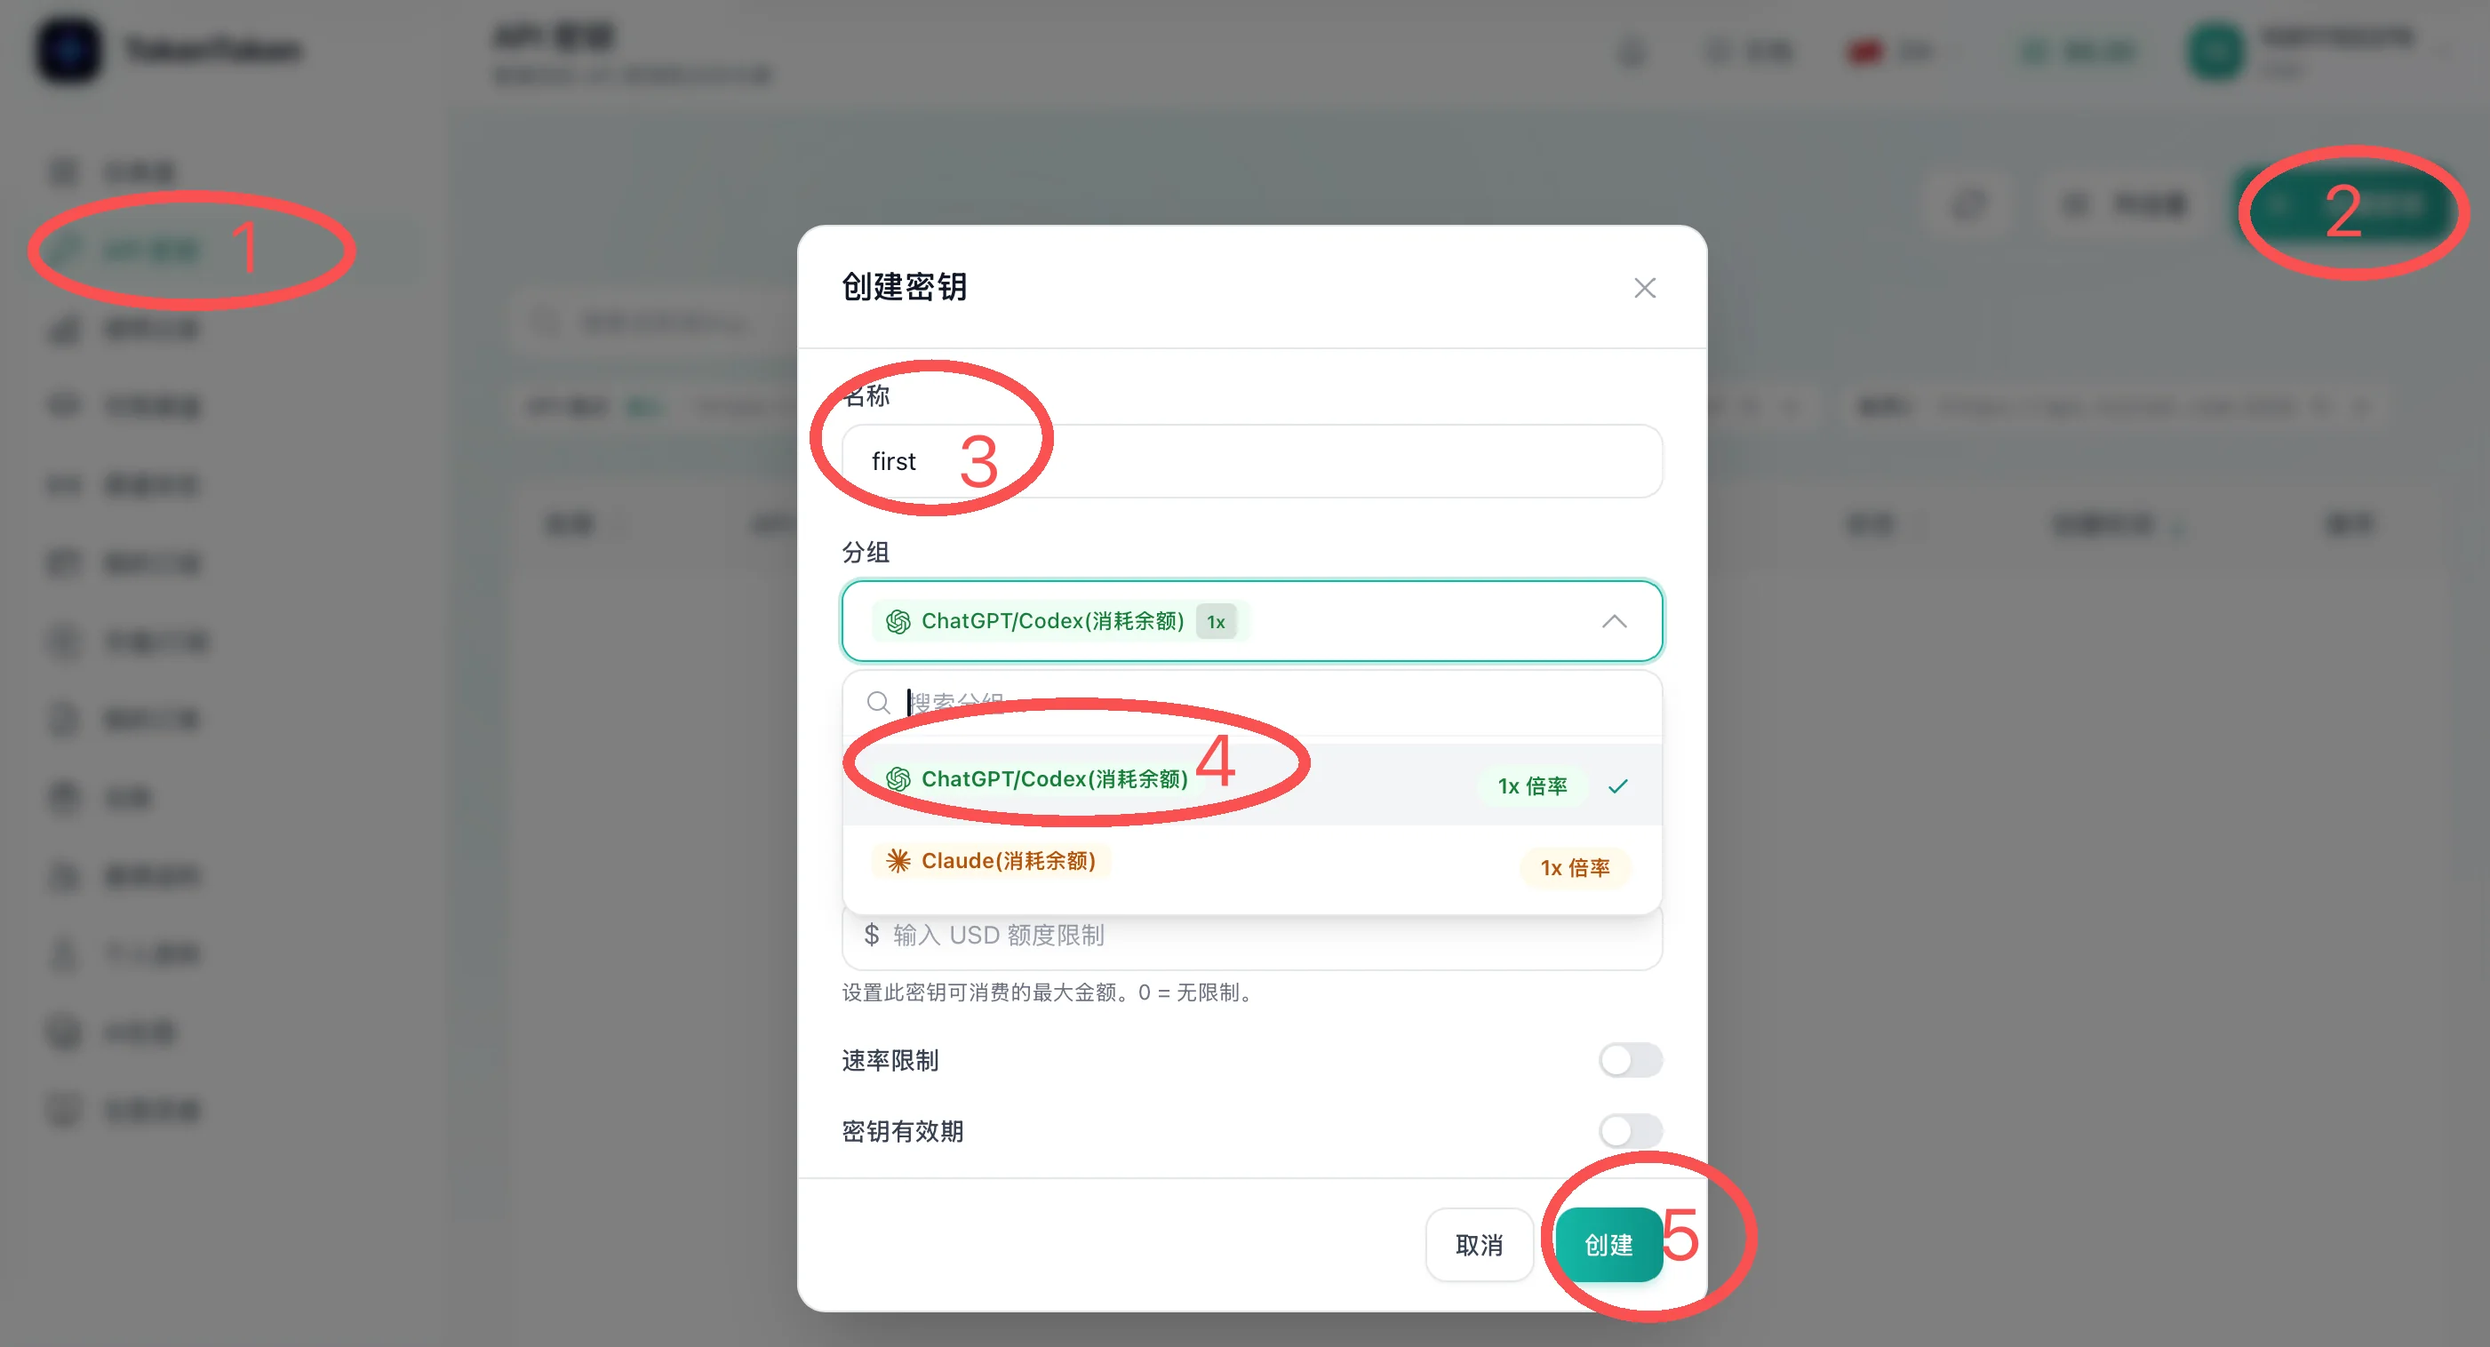
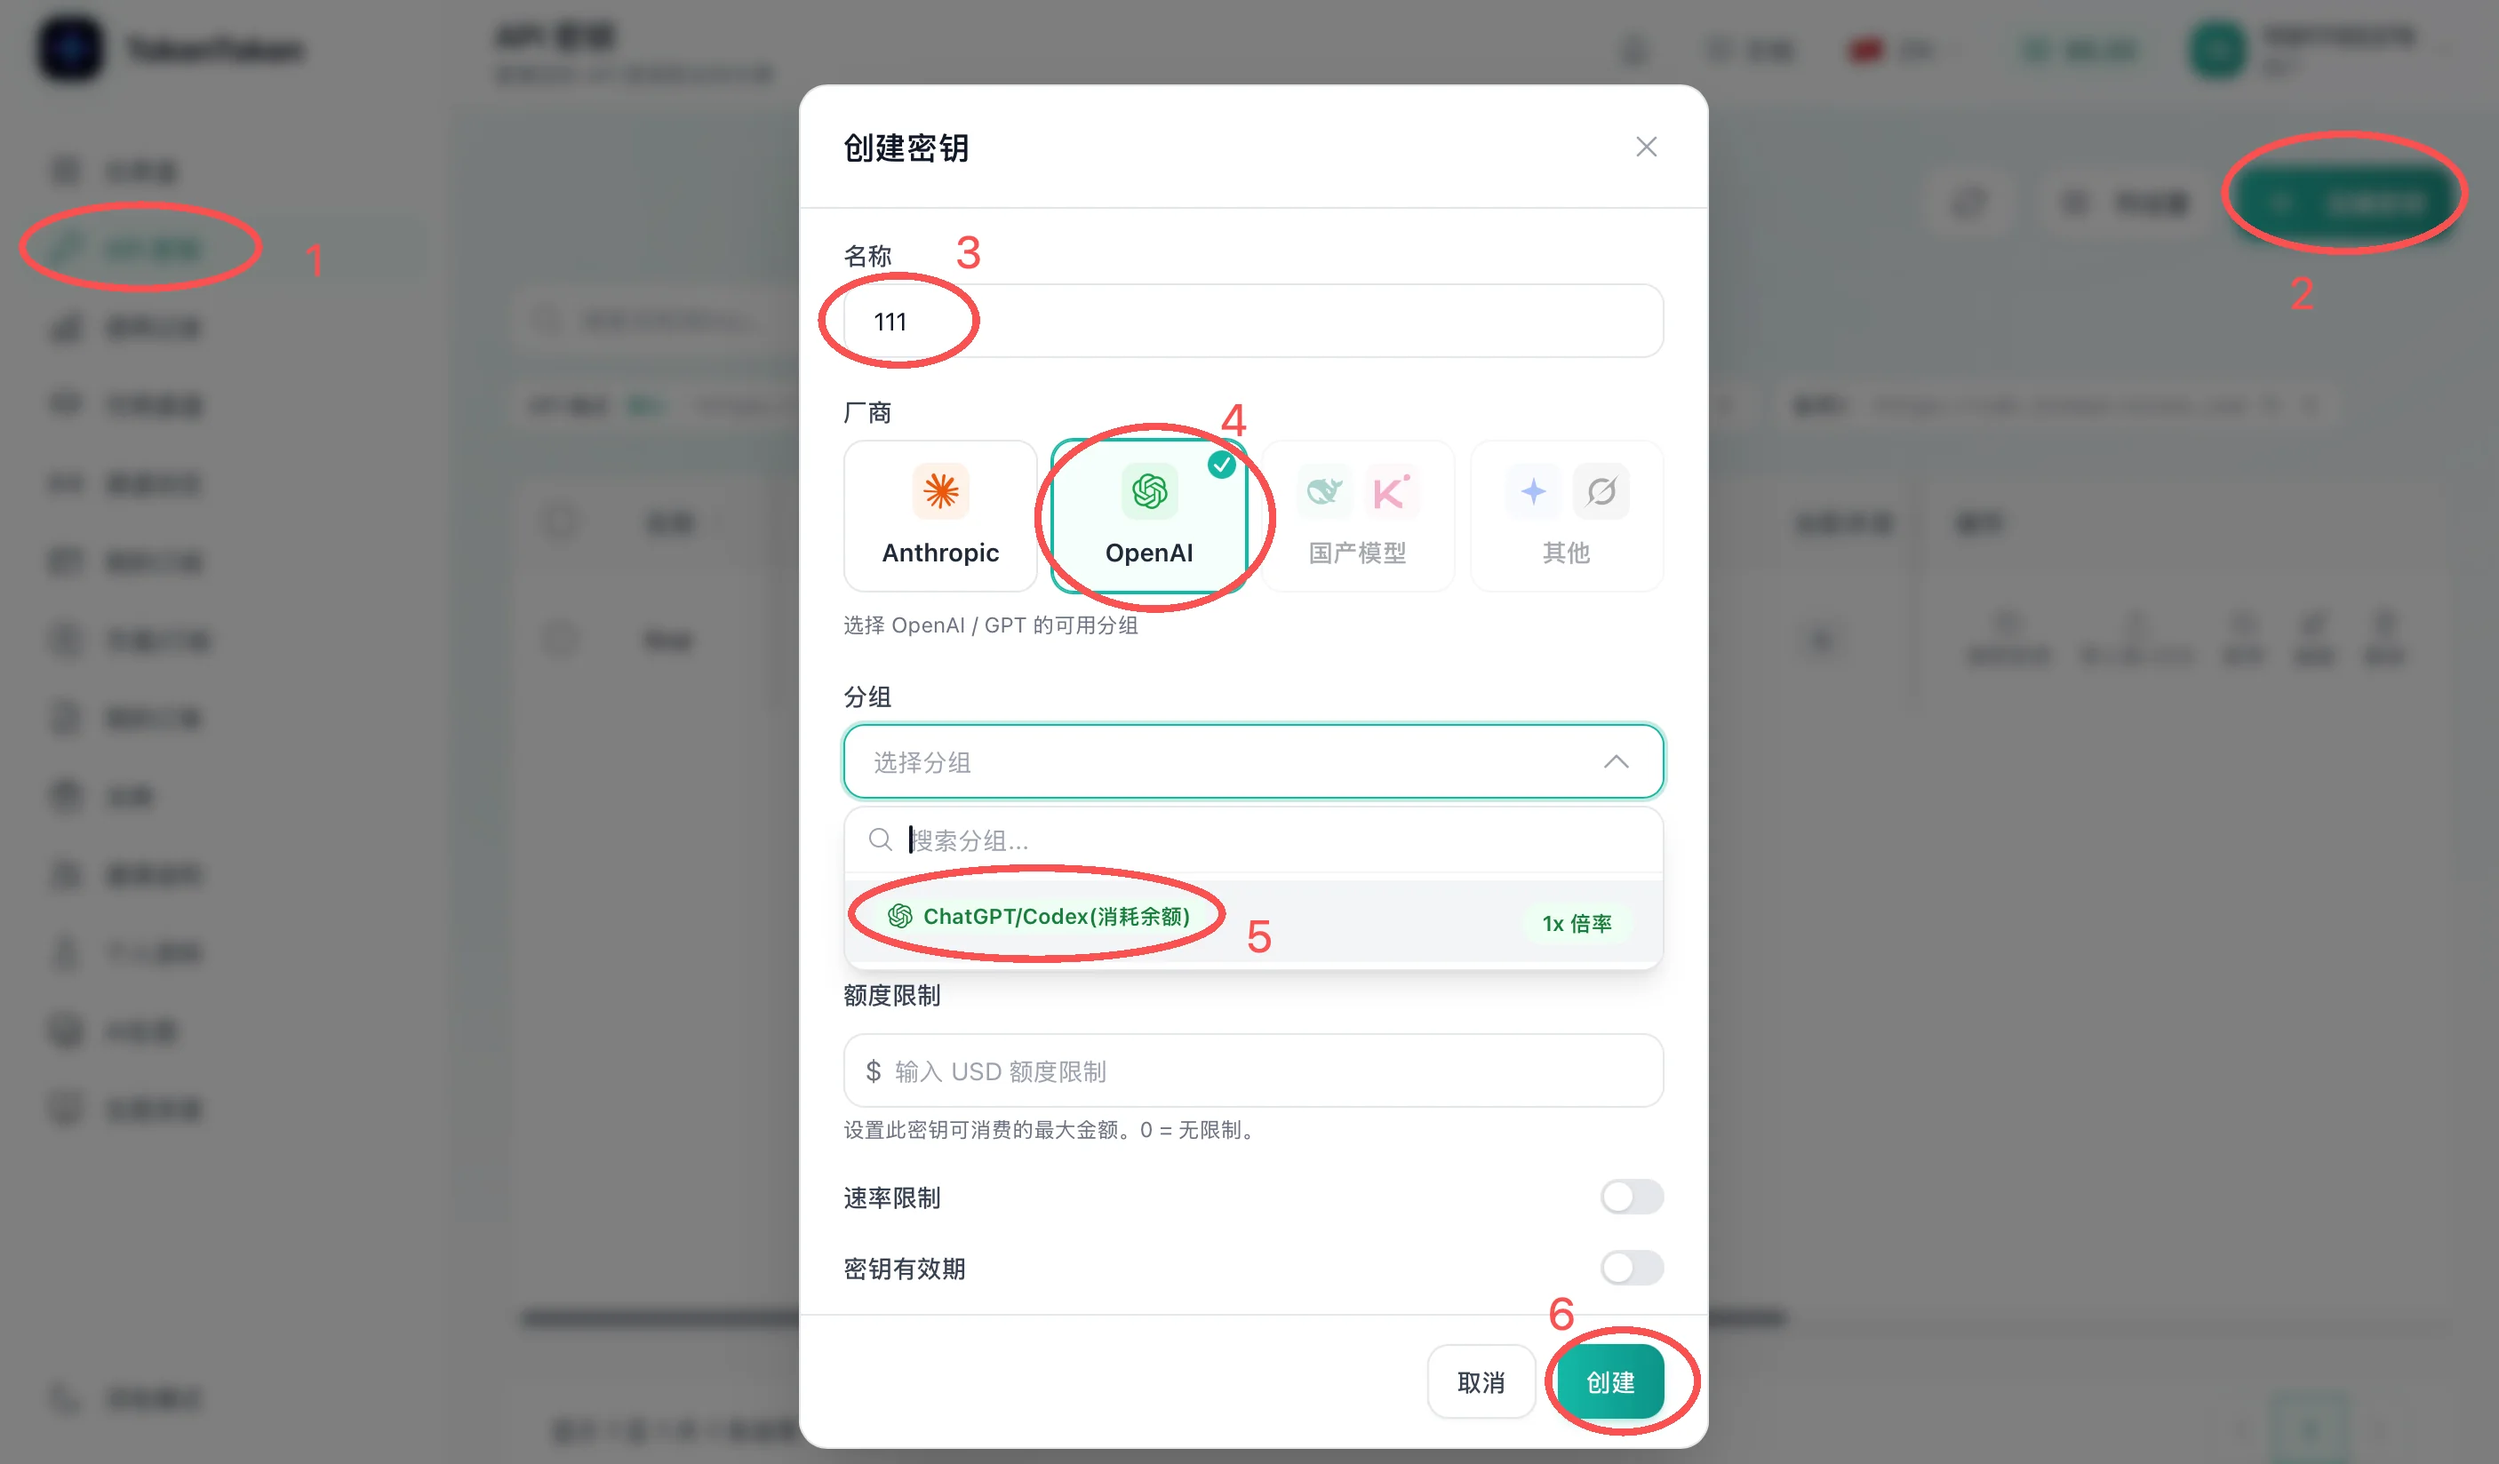
docs: update TokenToken guide and API key screenshot

diff --git a/docs/guide/token-token.md b/docs/guide/token-token.md
@@ -4,7 +4,7 @@
 
 这是一个大模型聚合平台，上游接的ChatGPT pro订阅账户，共享额度给各位老板使用，网络问题/ChatGPT账户注册问题/海外信用卡支付订阅的问题，统统不用操心，像使用国内模型一样丝滑使用。
 
-当前支持gpt-5.6系列，gpt-5.5，gpt-5.4，gpt-image-2等模型，可以接入Codex写代码，也可以生图、做网站、辅助论文写作，1r兑换1刀额度，gpt-5.6-sol/gpt-5.5百万token输入价格5块，跟国产模型差不多的价格用顶级模型，性价比拉满。
+当前支持gpt-6系列，gpt-5.6系列，gpt-5.5，gpt-image-2/2.5等模型，可以接入Codex写代码，也可以生图、做网站、辅助论文写作，1r兑换1刀额度，gpt-5.6-sol/gpt-5.5百万token输入价格5块，跟国产模型差不多的价格用顶级模型，性价比拉满。
 
 
 
@@ -35,8 +35,6 @@
 **方式1(推荐)**，在密钥列表的“API密钥”列，点击复制按钮即可复制密钥。
 
 **方式2**，在“操作”列，点击“使用密钥”按钮可查看密钥详细信息。
-
-**方式3**，点击“导入到CCS”按钮即可一键跳转到CCS配置。
 
 <a href="/images/token-token/token-token-03.webp"><img class="guide-image-compact" src="/images/token-token/token-token-03.webp" alt="在 API 密钥列表中点击复制按钮将密钥复制到剪贴板"></a>
 
